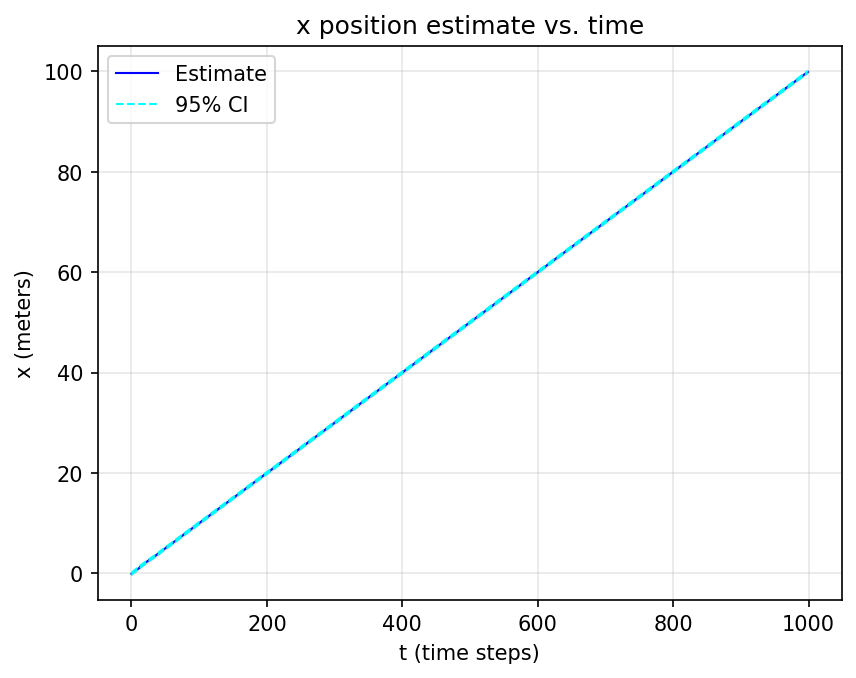
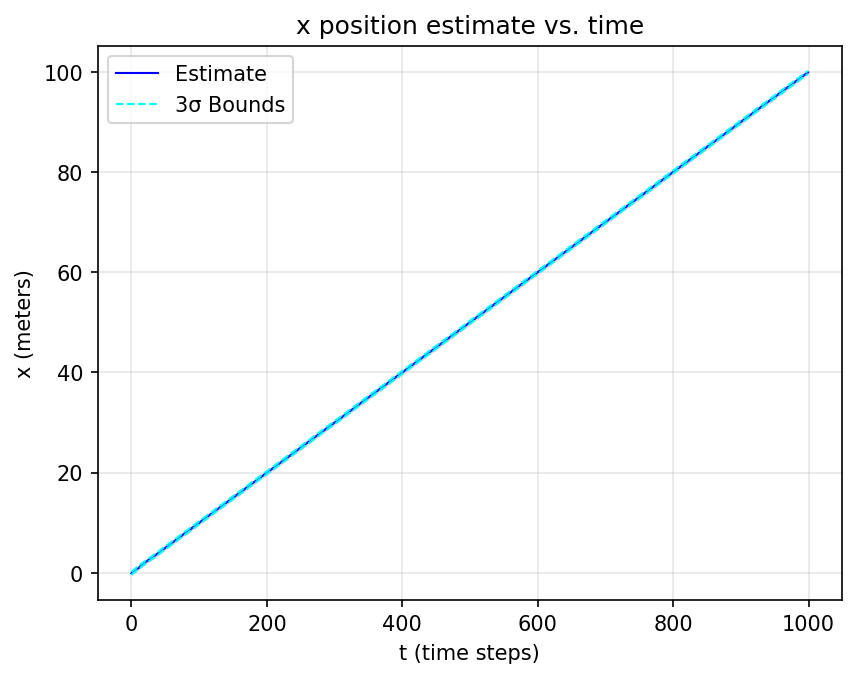
Modified plotdata.py to subfigures, also doing 3sigma. Also added roll pitch yaw plots

diff --git a/data_processing/plotdata.py b/data_processing/plotdata.py
@@ -2,6 +2,154 @@ import numpy as np
 import matplotlib.pyplot as plt
 from mpl_toolkits.mplot3d import Axes3D
 from matplotlib.animation import FuncAnimation
+import math
+
+
+def quaternion_to_euler(q):
+  """
+  Convert quaternion to Euler angles (roll, pitch, yaw).
+  
+  Args:
+    q: Quaternion object with w, x, y, z attributes
+  
+  Returns:
+    roll, pitch, yaw in radians
+  """
+  # Extract quaternion components
+  w, x, y, z = q.w, q.x, q.y, q.z
+  
+  # Roll (rotation around x-axis)
+  sinr_cosp = 2 * (w * x + y * z)
+  cosr_cosp = 1 - 2 * (x * x + y * y)
+  roll = math.atan2(sinr_cosp, cosr_cosp)
+  
+  # Pitch (rotation around y-axis)
+  sinp = 2 * (w * y - z * x)
+  if abs(sinp) >= 1:
+    pitch = math.copysign(math.pi / 2, sinp)
+  else:
+    pitch = math.asin(sinp)
+  
+  # Yaw (rotation around z-axis)
+  siny_cosp = 2 * (w * z + x * y)
+  cosy_cosp = 1 - 2 * (y * y + z * z)
+  yaw = math.atan2(siny_cosp, cosy_cosp)
+  
+  return roll, pitch, yaw
+
+
+def plot_euler_angles(quaternions, covariances=None, save_dir='results', show=True):
+  """
+  Plot roll, pitch, yaw over time from quaternion estimates with covariance bounds.
+  Creates a single figure with 3 vertically stacked subplots.
+  
+  Args:
+    quaternions: List of Quaternion objects
+    covariances: Optional list of 15x15 covariance matrices from MEKF (default: None)
+                 If provided, extracts orientation error covariance and plots bounds
+    save_dir: Directory to save plots (default: 'results')
+    show: If True, display plots interactively (default: True)
+  """
+  import os
+  os.makedirs(save_dir, exist_ok=True)
+  
+  # Convert quaternions to Euler angles
+  euler_angles = [quaternion_to_euler(q) for q in quaternions]
+  
+  # Extract individual angles and convert to degrees
+  t = np.arange(len(euler_angles))
+  roll = np.array([np.degrees(e[0]) for e in euler_angles])
+  pitch = np.array([np.degrees(e[1]) for e in euler_angles])
+  yaw = np.array([np.degrees(e[2]) for e in euler_angles])
+  
+  # Extract covariance bounds if available
+  roll_ub = None
+  roll_lb = None
+  pitch_ub = None
+  pitch_lb = None
+  yaw_ub = None
+  yaw_lb = None
+  
+  if covariances is not None:
+        # covariances is shape (15, 15, n_steps) - extract for each timestep
+    try:
+      n_steps = covariances.shape[2] if len(covariances.shape) == 3 else len(covariances)
+      
+      if n_steps == len(euler_angles):
+        # Extract orientation error covariance diagonal (first 3 elements)
+        # Note: MEKF error state covariance is in rad, convert bounds to degrees
+        if len(covariances.shape) == 3:
+          # 3D array: (15, 15, n_steps)
+          roll_std = np.array([np.degrees(np.sqrt(max(0, covariances[0, 0, i]))) for i in range(n_steps)])
+          pitch_std = np.array([np.degrees(np.sqrt(max(0, covariances[1, 1, i]))) for i in range(n_steps)])
+          yaw_std = np.array([np.degrees(np.sqrt(max(0, covariances[2, 2, i]))) for i in range(n_steps)])
+        else:
+          # List of 2D arrays
+          roll_std = np.array([np.degrees(np.sqrt(max(0, covariances[i][0, 0]))) for i in range(n_steps)])
+          pitch_std = np.array([np.degrees(np.sqrt(max(0, covariances[i][1, 1]))) for i in range(n_steps)])
+          yaw_std = np.array([np.degrees(np.sqrt(max(0, covariances[i][2, 2]))) for i in range(n_steps)])
+        
+        # Compute 3-sigma bounds (3 * std)
+        roll_ub = roll + 3.0 * roll_std
+        roll_lb = roll - 3.0 * roll_std
+        pitch_ub = pitch + 3.0 * pitch_std
+        pitch_lb = pitch - 3.0 * pitch_std
+        yaw_ub = yaw + 3.0 * yaw_std
+        yaw_lb = yaw - 3.0 * yaw_std
+    except Exception as e:
+      print(f"Warning: Could not extract covariance bounds: {e}")
+      pass
+  
+  # Create figure with 3 subplots stacked vertically
+  fig, axes = plt.subplots(3, 1, figsize=(12, 10))
+  fig.suptitle('MEKF Attitude Estimates - Euler Angles', fontsize=16, fontweight='bold')
+  
+  # Plot Roll
+  axes[0].plot(t, roll, linestyle='-', color='blue', linewidth=2, label='Roll Estimate')
+  if roll_ub is not None:
+    axes[0].plot(t, roll_ub, linestyle='--', color='cyan', linewidth=1, label='3σ Bounds')
+    axes[0].plot(t, roll_lb, linestyle='--', color='cyan', linewidth=1)
+    axes[0].fill_between(t, roll_ub, roll_lb, color='lightblue', alpha=0.3)
+  axes[0].set_ylabel('Roll (degrees)', fontsize=11, fontweight='bold')
+  axes[0].grid(True, alpha=0.3)
+  axes[0].legend(loc='upper right')
+  axes[0].set_title('Roll (φ) - Rotation around X-axis', fontsize=10)
+  
+  # Plot Pitch
+  axes[1].plot(t, pitch, linestyle='-', color='green', linewidth=2, label='Pitch Estimate')
+  if pitch_ub is not None:
+    axes[1].plot(t, pitch_ub, linestyle='--', color='lightgreen', linewidth=1, label='3σ Bounds')
+    axes[1].plot(t, pitch_lb, linestyle='--', color='lightgreen', linewidth=1)
+    axes[1].fill_between(t, pitch_ub, pitch_lb, color='lightgreen', alpha=0.3)
+  axes[1].set_ylabel('Pitch (degrees)', fontsize=11, fontweight='bold')
+  axes[1].grid(True, alpha=0.3)
+  axes[1].legend(loc='upper right')
+  axes[1].set_title('Pitch (θ) - Rotation around Y-axis', fontsize=10)
+  
+  # Plot Yaw
+  axes[2].plot(t, yaw, linestyle='-', color='red', linewidth=2, label='Yaw Estimate')
+  if yaw_ub is not None:
+    axes[2].plot(t, yaw_ub, linestyle='--', color='salmon', linewidth=1, label='3σ Bounds')
+    axes[2].plot(t, yaw_lb, linestyle='--', color='salmon', linewidth=1)
+    axes[2].fill_between(t, yaw_ub, yaw_lb, color='mistyrose', alpha=0.3)
+  axes[2].set_xlabel('Time (steps)', fontsize=11, fontweight='bold')
+  axes[2].set_ylabel('Yaw (degrees)', fontsize=11, fontweight='bold')
+  axes[2].grid(True, alpha=0.3)
+  axes[2].legend(loc='upper right')
+  axes[2].set_title('Yaw (ψ) - Rotation around Z-axis', fontsize=10)
+  
+  # Adjust layout
+  plt.tight_layout()
+  
+  # Save figure
+  plt.savefig(f'{save_dir}/euler_angles.png', dpi=150, bbox_inches='tight')
+  print(f"✓ Saved: {save_dir}/euler_angles.png")
+  
+  if show:
+    print("Displaying Euler angles plot...\n")
+    plt.show()
+  else:
+    plt.close(fig)
 
 def make_ellipse(mean, cov):
   vals, vecs = np.linalg.eigh(cov)
@@ -48,54 +196,52 @@ def plot_results(state, cov, save_dir='results', show=True):
   x_cov = np.array([matrix[0, 0] for matrix in cov])
   y_cov = np.array([matrix[1, 1] for matrix in cov])
   z_cov = np.array([matrix[2, 2] for matrix in cov])
-  x_up = x + 1.96 * np.sqrt(x_cov)
-  x_low = x - 1.96 * np.sqrt(x_cov)
-  y_up = y + 1.96 * np.sqrt(y_cov)
-  y_low = y - 1.96 * np.sqrt(y_cov)
-  z_up = z + 1.96 * np.sqrt(z_cov)
-  z_low = z - 1.96 * np.sqrt(z_cov)
+  x_up = x + 3.0 * np.sqrt(x_cov)
+  x_low = x - 3.0 * np.sqrt(x_cov)
+  y_up = y + 3.0 * np.sqrt(y_cov)
+  y_low = y - 3.0 * np.sqrt(y_cov)
+  z_up = z + 3.0 * np.sqrt(z_cov)
+  z_low = z - 3.0 * np.sqrt(z_cov)
 
-  #plot x position vs. time
-  plt.figure()
-  plt.title("x position estimate vs. time")
-  plt.xlabel("t (time steps)")
-  plt.ylabel("x (meters)")
-  plt.plot(t, x, linestyle='-', color='blue', linewidth=1, label='Estimate')
-  plt.plot(t, x_up, linestyle='--', color='cyan', linewidth=1, label='95% CI')
-  plt.plot(t, x_low, linestyle='--', color='cyan', linewidth=1)
-  plt.fill_between(t, x_up, x_low, color='gray', alpha=0.2)
-  plt.legend()
-  plt.grid(True, alpha=0.3)
-  plt.savefig(f'{save_dir}/x_position.png', dpi=150, bbox_inches='tight')
-  print(f"✓ Saved: {save_dir}/x_position.png")
-
-  #plot y position vs. time
-  plt.figure()
-  plt.title("y position estimate vs. time")
-  plt.xlabel("t (time steps)")
-  plt.ylabel("y (meters)")
-  plt.plot(t, y, linestyle='-', color='blue', linewidth=1, label='Estimate')
-  plt.plot(t, y_up, linestyle='--', color='cyan', linewidth=1, label='95% CI')
-  plt.plot(t, y_low, linestyle='--', color='cyan', linewidth=1)
-  plt.fill_between(t, y_up, y_low, color='gray', alpha=0.2)
-  plt.legend()
-  plt.grid(True, alpha=0.3)
-  plt.savefig(f'{save_dir}/y_position.png', dpi=150, bbox_inches='tight')
-  print(f"✓ Saved: {save_dir}/y_position.png")
-
-  #plot z position vs. time
-  plt.figure()
-  plt.title("z position estimate vs. time")
-  plt.xlabel("t (time steps)")
-  plt.ylabel("z (meters)")
-  plt.plot(t, z, linestyle='-', color='blue', linewidth=1, label='Estimate')
-  plt.plot(t, z_up, linestyle='--', color='cyan', linewidth=1, label='95% CI')
-  plt.plot(t, z_low, linestyle='--', color='cyan', linewidth=1)
-  plt.fill_between(t, z_up, z_low, color='gray', alpha=0.2)
-  plt.legend()
-  plt.grid(True, alpha=0.3)
-  plt.savefig(f'{save_dir}/z_position.png', dpi=150, bbox_inches='tight')
-  print(f"✓ Saved: {save_dir}/z_position.png")
+  # Plot all three position components in a single figure with 3 stacked subplots
+  fig, axes = plt.subplots(3, 1, figsize=(12, 10))
+  fig.suptitle('EKF Position Estimates', fontsize=16, fontweight='bold')
+  
+  # Plot x position
+  axes[0].plot(t, x, linestyle='-', color='blue', linewidth=1.5, label='X Estimate')
+  axes[0].plot(t, x_up, linestyle='--', color='cyan', linewidth=1, label='3σ Bounds')
+  axes[0].plot(t, x_low, linestyle='--', color='cyan', linewidth=1)
+  axes[0].fill_between(t, x_up, x_low, color='lightblue', alpha=0.3)
+  axes[0].set_ylabel('X Position (meters)', fontsize=11, fontweight='bold')
+  axes[0].set_title('X Position vs. Time', fontsize=10)
+  axes[0].grid(True, alpha=0.3)
+  axes[0].legend(loc='upper right')
+  
+  # Plot y position
+  axes[1].plot(t, y, linestyle='-', color='green', linewidth=1.5, label='Y Estimate')
+  axes[1].plot(t, y_up, linestyle='--', color='lightgreen', linewidth=1, label='3σ Bounds')
+  axes[1].plot(t, y_low, linestyle='--', color='lightgreen', linewidth=1)
+  axes[1].fill_between(t, y_up, y_low, color='lightgreen', alpha=0.3)
+  axes[1].set_ylabel('Y Position (meters)', fontsize=11, fontweight='bold')
+  axes[1].set_title('Y Position vs. Time', fontsize=10)
+  axes[1].grid(True, alpha=0.3)
+  axes[1].legend(loc='upper right')
+  
+  # Plot z position
+  axes[2].plot(t, z, linestyle='-', color='red', linewidth=1.5, label='Z Estimate')
+  axes[2].plot(t, z_up, linestyle='--', color='salmon', linewidth=1, label='3σ Bounds')
+  axes[2].plot(t, z_low, linestyle='--', color='salmon', linewidth=1)
+  axes[2].fill_between(t, z_up, z_low, color='mistyrose', alpha=0.3)
+  axes[2].set_xlabel('Time (steps)', fontsize=11, fontweight='bold')
+  axes[2].set_ylabel('Z Position (meters)', fontsize=11, fontweight='bold')
+  axes[2].set_title('Z Position vs. Time', fontsize=10)
+  axes[2].grid(True, alpha=0.3)
+  axes[2].legend(loc='upper right')
+  
+  # Adjust layout and save
+  plt.tight_layout()
+  plt.savefig(f'{save_dir}/positions.png', dpi=150, bbox_inches='tight')
+  print(f"✓ Saved: {save_dir}/positions.png")
 
   #plot trajectory
   figure = plt.figure(figsize=(10, 8))

diff --git a/tests/test_EKF_MEKF.py b/tests/test_EKF_MEKF.py
@@ -17,7 +17,7 @@ sys.path.insert(0, os.path.join(os.path.dirname(__file__), '..'))
 
 import EKF.EKF as EKF
 from mekf.MEKF import MEKF
-from data_processing.plotdata import plot_results
+from data_processing.plotdata import plot_results, plot_euler_angles
 
 
 class SimulatedDynamics:
@@ -373,6 +373,7 @@ class TestEKFMEKF:
             'sim': sim,
             'ekf_estimates': ekf_estimates,
             'mekf_estimates': mekf_estimates,
+            'mekf_covariances': mekf_covariances,  # Store covariance matrices for plotting
         }
         
         # Success criteria
@@ -396,6 +397,7 @@ class TestEKFMEKF:
     def plot_test_results(self, test_name=None, save_dir='test_results'):
         """
         Plot results from a specific test or the first available test.
+        Generates both EKF position plots and MEKF attitude (Euler angles) plots.
         
         Args:
             test_name: Name of test to plot (e.g., 'linear_motion')
@@ -415,8 +417,10 @@ class TestEKFMEKF:
         
         results = self.results[test_name]
         ekf_estimates = results['ekf_estimates']
+        mekf_estimates = results['mekf_estimates']
+        mekf_covariances = results.get('mekf_covariances', None)  # Get covariance if available
         
-        # Convert to format expected by plot_results
+        # Convert EKF results to format expected by plot_results
         # plot_results expects: state as list of 3-element vectors, cov as list of 3x3 matrices
         state_list = [ekf_estimates[:3, i] for i in range(ekf_estimates.shape[1])]
         
@@ -430,7 +434,15 @@ class TestEKFMEKF:
             cov_list.append(np.eye(3) * 0.01)  # Small placeholder covariance
         
         try:
+            # Plot EKF position estimates (single figure with 3 subplots)
+            print("\nGenerating EKF Position Plots (X, Y, Z combined in one figure)...")
             plot_results(state_list, cov_list, save_dir=save_dir, show=True)
+            
+            # Plot MEKF attitude (Euler angles with covariance bounds)
+            print("\nGenerating MEKF Attitude Plots (Euler Angles with 3σ Bounds)...")
+            plot_euler_angles(mekf_estimates, covariances=mekf_covariances, 
+                            save_dir=save_dir, show=True)
+            
         except Exception as e:
             print(f"Error during plotting: {e}")
             print("Plots may not display correctly, but computation was successful.")
